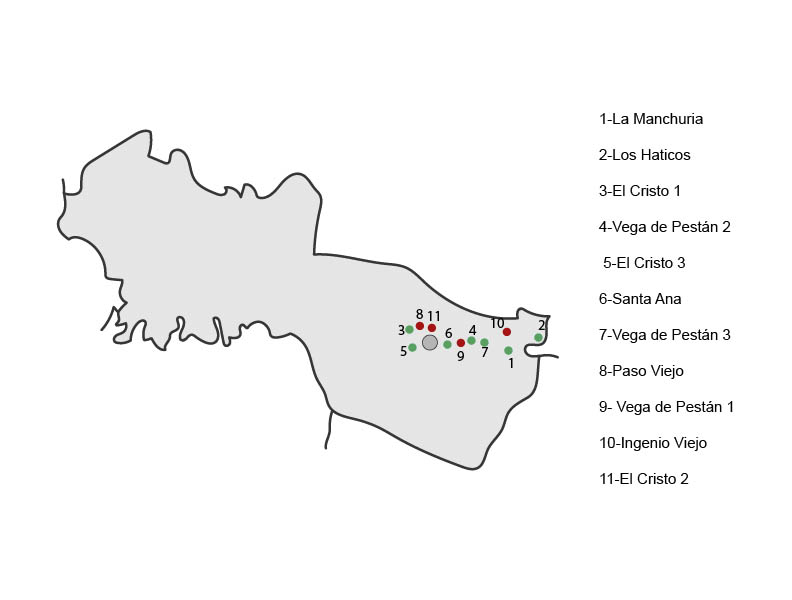
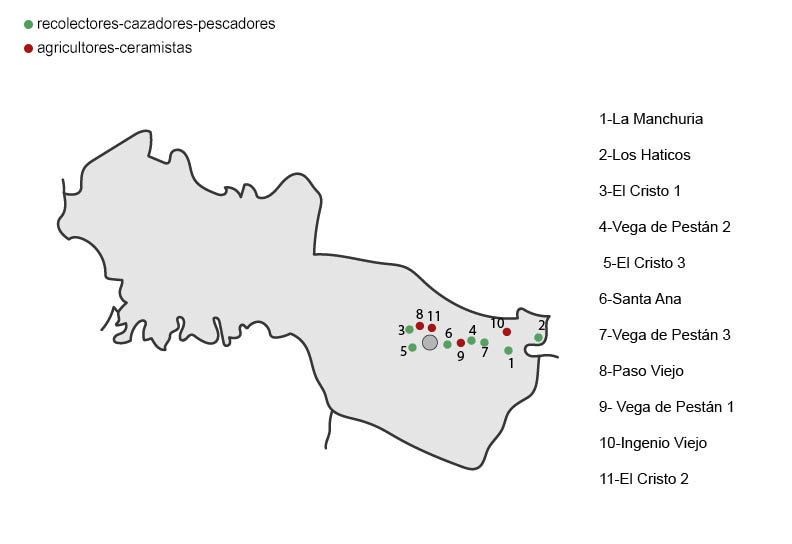
arreglado estilo del menu y la galeria

diff --git a/src/renderer/components/SystemSearch.vue b/src/renderer/components/SystemSearch.vue
@@ -1,16 +1,30 @@
 <template>
     <div class="search-container">
+        <ul class="top_icons">
+            <li>
         <a href="#">
             <img src="~@/assets/images/icons/icon_unk.png">
         </a>
-        <bp-vuejs-dropdown :class-name="'my-class'" :unscroll="'main'">
-            <template slot="body">Lorem...</template>
+            </li>
+            <li>
+        <bp-vuejs-dropdown :class-name="'my-dropdown'" :unscroll="'main'">
+            <template slot="body">
+                <ul>
+                <li><a href="#">Pagina de contenido</a></li>
+                <li><a href="#">Pagina de contenido</a></li>
+                <li><a href="#">Pagina de contenido</a></li>
+                <li><a href="#">Pagina de contenido</a></li>
+                </ul>
+            </template>
         </bp-vuejs-dropdown>
+            </li>
         <!--a href="#">
             <img src="~@/assets/images/icons/icon_help.png">
         </a-->
+        <li>
         <input placeholder="Buscar" v-bind:value="searchText"  v-on:input="$emit('input', $event.target.value)">
-
+        </li>
+        </ul>
 
     </div>
 </template>
@@ -28,12 +42,15 @@
 
 <style scoped>
     .search-container{
+        display: flex;
+    }
+    .search-container ul.top_icons{
         float: right;
         display: flex;
         margin-top: auto;
         margin-right: 55px;
     }
-    a{
+    ul.top_icons > li{
         display: inline-block;
         margin: 0 5px;
     }
@@ -46,18 +63,9 @@
         padding-right: 32px;
         color: #ffffff;
     }
-
-    .my-class-bp__btn {
-    background: lightgray;
-    }
-
-    .my-class-bp__btn--active {
-    background: #fff;
-    }
-
-    .my-class-bp__body {
-    width: 20rem; 
-    padding: 2rem; 
-    font-size: 1.6rem;
-    }
+</style>
+<style>
+.my-dropdown-bp__btn, .my-dropdown-bp__btn--active {
+  background: transparent url('../assets/images/icons/icon_dropdown.png') no-repeat scroll 100% 50% !important;
+}
 </style>

diff --git a/src/renderer/assets/css/app.css b/src/renderer/assets/css/app.css
@@ -195,3 +195,63 @@
   width: 20px;
   left: -5px;
 }
+
+/*------------------------------------- gallery style -----------------------------------------*/
+.v-gallery .light-gallery a {
+  width: calc(25% - 10px);
+}
+
+.v-gallery .light-gallery a .image-container img {
+  height: 160px;
+  width: auto !important;
+  margin: 0 auto;
+}
+
+.v-gallery .light-gallery a .image-container {
+    display: inline-table !important;
+    background-color: #424242 !important;
+    width: 100%;
+    text-align: center;
+}
+
+/*------------------------------------- dropdown menu  style -----------------------------------------*/
+.my-dropdown-bp__btn svg{
+  display: none;
+}
+
+.my-dropdown-bp__body {
+width: 20rem; 
+padding: 2rem; 
+font-size: 1.6rem;
+}
+
+.bp-dropdown__btn {
+  width: 33px;
+height: 30px;
+border: none !important;
+}
+.my-dropdown-bp__body {
+width: auto;
+padding: 2rem;
+font-size: inherit;
+}
+
+.my-dropdown-bp__body ul{
+  list-style: none;
+}
+
+.my-dropdown-bp__body ul > li{
+  list-style: none;
+}
+
+.my-dropdown-bp__body ul > li a{
+  padding: 4px 8px;
+    text-decoration: none;
+    display: inline-block;
+    color: #000000;
+}
+
+.my-dropdown-bp__body ul > li a:hover{
+  background: #303030;
+    color: #ffffff;
+}

diff --git a/src/renderer/components/Galeria.vue b/src/renderer/components/Galeria.vue
@@ -14,6 +14,7 @@
                     <div class="img-title" v-html="img.title"></div>
                 </a>
             </v-gallery>
+            <v-gallery :images="list2" :dark="true" :caption="true" ></v-gallery>
         </div>
     </vue-scrollbar>
 </template>
@@ -28,11 +29,12 @@ export default{
                     {title:'Image2',url:'static/mapa_2.jpg'},
                     {title:'Image2',url:'static/mapa_3.jpg'},
                     {title:'Image1',url:'static/mapa_1.jpg'},
-                    {title:'Image2',url:'static/mapa_2.jpg'},
-                    {title:'Image2',url:'static/mapa_3.jpg'},
+                ],
+                list2: [
                     {title:'Image1',url:'static/mapa_1.jpg'},
                     {title:'Image2',url:'static/mapa_2.jpg'},
                     {title:'Image2',url:'static/mapa_3.jpg'},
+                    {title:'Image1',url:'static/mapa_1.jpg'},
                 ]
             }
         }

diff --git a/src/renderer/components/SitiosArqueologicos.vue b/src/renderer/components/SitiosArqueologicos.vue
@@ -85,8 +85,6 @@
 
 <script>
     export default {
-        //ToDo recolectores-cazadores-pescadores verdes
-        //ToDo agricultores-ceramistas rojos
     props: ['searchText'],
         data(){
             return{

diff --git a/src/renderer/App.vue b/src/renderer/App.vue
@@ -39,7 +39,7 @@
     data(){
       return{
         searchText: '',
-        loadcomplete: false
+        loadcomplete: true
       }
     },
     components: { SystemSplash, SystemMenu, SystemSearch },
